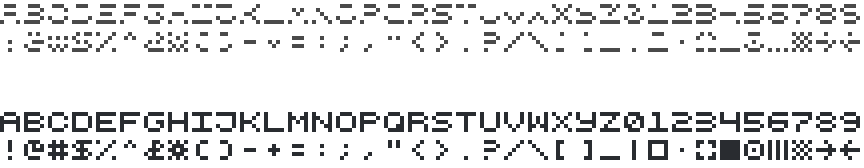
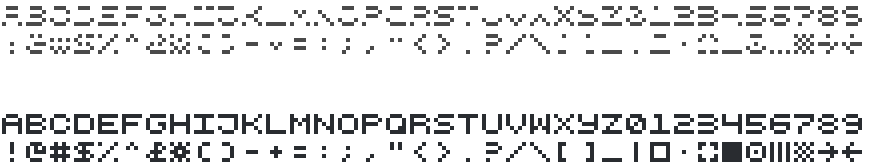
Add lowercase/space support, display tweaks

diff --git a/src/lib/tilemap.ts b/src/lib/tilemap.ts
@@ -538,11 +538,13 @@ export const tileMapOryxMain = {
 
 export function oryxTinyFontMap(xSize: number, ySize: number) {
   const tiles = [
-    'ABCDEFGHIJKLMNOPQRSTUVWXYZ0123456789'.split(''),
+    'ABCDEFGHIJKLMNOPQRSTUVWXYZ0123456789 '.split(''),
     '!@#$%^&*()-+=:;,"<>.?/\\[]_|'.split(''),
   ]
 
-  return tiles.reduce((acc, curr, y) => {
+  const tilesLower = ['abcdefghijklmnopqrstuvwxyz'.split('')]
+
+  const tileKey1 = tiles.reduce((acc, curr, y) => {
     const row = curr.reduce((rAcc, rCurr, x) => {
       const tile = { [rCurr]: [x * xSize, y * ySize] } as Record<string, [number, number]>
       return { ...rAcc, ...tile }
@@ -550,4 +552,15 @@ export function oryxTinyFontMap(xSize: number, ySize: number) {
 
     return { ...acc, ...row }
   }, {} as Record<string, [number, number]>)
+
+  const tileKey2 = tilesLower.reduce((acc, curr, y) => {
+    const row = curr.reduce((rAcc, rCurr, x) => {
+      const tile = { [rCurr]: [x * xSize, y * ySize] } as Record<string, [number, number]>
+      return { ...rAcc, ...tile }
+    }, {} as Record<string, [number, number]>)
+
+    return { ...acc, ...row }
+  }, {} as Record<string, [number, number]>)
+
+  return { ...tileKey1, ...tileKey2 }
 }

diff --git a/src/config.ts b/src/config.ts
@@ -11,8 +11,8 @@ const messageDisplayWidth = 69
 const messageDisplayHeight = 35
 const messageBufferDisplaySize = 5
 
-const textDisplayWidth = mainDisplayWidth * 2
-const textDisplayHeight = mainDisplayHeight * 2
+const textDisplayWidth = mainDisplayWidth * 2 - 1
+const textDisplayHeight = 32
 
 const generateWidth = 37 // approx 1.5 times graphical display size
 const generateHeight = 19

diff --git a/src/Core/Engine.ts b/src/Core/Engine.ts
@@ -55,7 +55,6 @@ export class Engine {
     this.system.init()
     listen(this.update.bind(this))
     console.log(this)
-    this.textDisplay.drawText(1, 1, 'HELLO')
     if (CONFIG.autoStartVisualizer) this.visualizer(Visualize('init'))
   }
 

diff --git a/src/lib/display.ts b/src/lib/display.ts
@@ -76,6 +76,11 @@ export const createTextDisplay = () => {
     tileMap: oryxTinyFontMap(24, 28),
   })
 
+  // debug
+  // for (let i = 0; i < 33; i++) {
+  //   display.drawText(0, i, 'HELLO')
+  // }
+
   return display
 }
 
